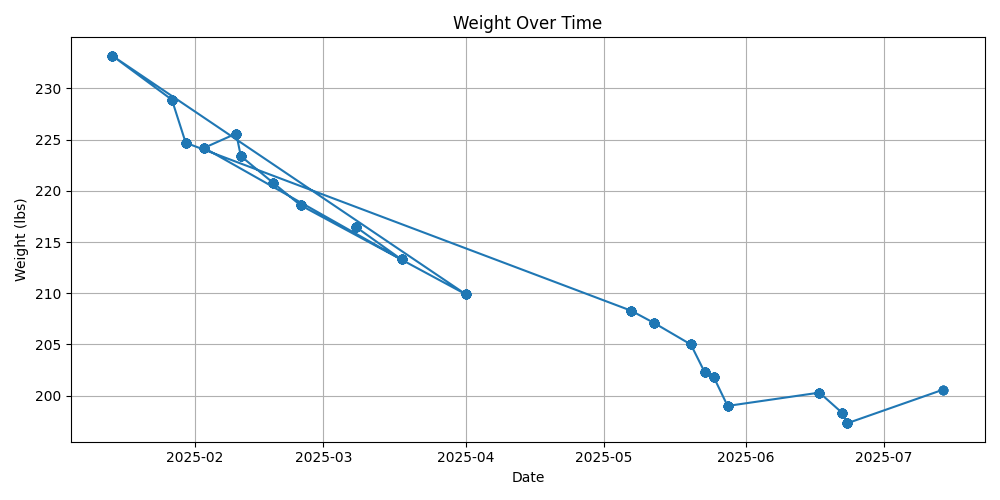
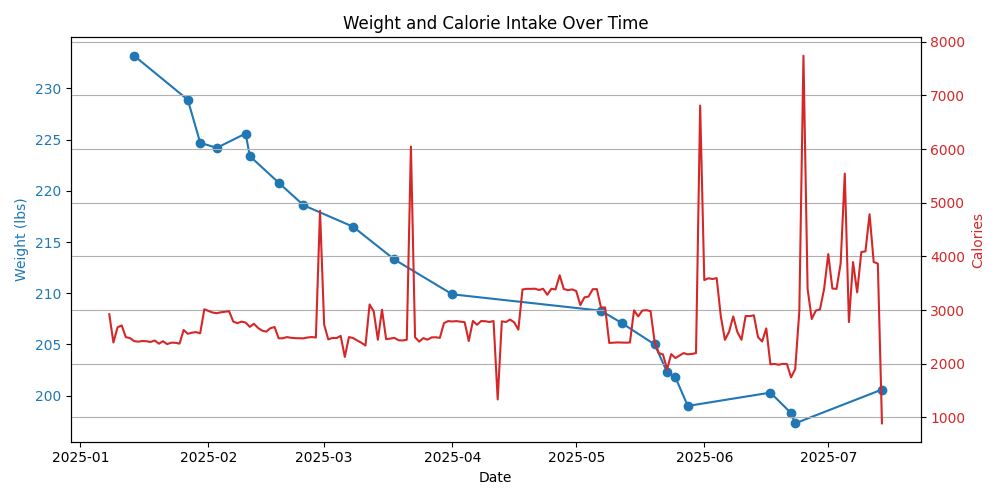
Update README with new insights and push updated weight/calorie chart

diff --git a/README.md b/README.md
@@ -23,41 +23,40 @@ The main goal of this dashboard is to help you:
 
 ## Visualizations & Summaries
 
-### 1. Weight Over Time
+### 1. Weight Over Time vs. Calorie Intake
 ![Weight Over Time](visualizations/weight_over_time.png)
-- I notice that my weight fluctuates, especially during periods when I eat more calories or change my macro balance. Most spikes in weight seem to follow cheat days where I eat more than usual. If my weight trends up or down outside my goals, I review my food choices for those days. When my weight is stable and healthy, I know I'm managing my diet well.
+- Weight loss has been consistent over time and cheat days have had little to no impact on consistent weight gain. Moderate to aggresive increase in calorie intake drives weight gain, while aggresive dieting leads to psychological and physical burnout and causes unplanned cheat days.
 
 ### 2. Daily Calorie Intake
 ![Daily Calorie Intake](visualizations/daily_calories.png)
-- I see spikes in my calorie intake that usually line up with cheat days, weekends, or social events. When my calories are consistent and close to my goal, I feel best. If I notice long stretches of low calories, I check for signs of low energy. Too many high-calorie days can lead to weight gain, so I keep an eye on those.
+
 
 ### 3. Daily Macros
 ![Daily Macros](visualizations/daily_macros.png)
-- Most days, my macros look balanced, but I see spikes in protein, carbs, and fat after cheat days or big meals. If I notice my fat intake is high for several days, I try to adjust my food choices. I aim for enough protein to support my activity level.
+- Most spikes in macro intake are due to cheat days. Increased carb intake in July has lead to improved physical performance and feelings of satiety. I've faced difficulty in keeping my protein intake under 200 grams. Fats have been kept deliberately low to allow for more carb intake but I'm slowly increasing them to see how it effects physical performance.
 
 
 ### 4. Daily Nutrients
 #### Cholesterol
 ![Daily Cholesterol](visualizations/daily_cholesterol_mg.png)
-- Most days I'm under the recommended 300mg, but I see spikes that line up with cheat days or when I eat eggs or shellfish.
+- Overall my cholesterol intake is a bit high (over 300 mg), but spikes are driven by cheat days.
 
 #### Sodium
 ![Daily Sodium](visualizations/daily_sodium_mg.png)
 
-- I often go over the 2300mg limit, especially after cheat days, processed foods, or restaurant meals. I know I should cut back to help my blood pressure.
+- I often go over the 2300 mg recommendation, but I don't find this concerning as I rely on sodium as a source of electrolytes, and my blood pressure is in a very healthy range.
 
 #### Sugar
 ![Daily Sugar](visualizations/daily_sugar_grams.png)
-- My sugar intake is usually moderate, but it jumps after cheat days, desserts, or lots of fruit. If I see too many high-sugar days, I try to cut back for my health.
+- My sugar intake is usually moderate, but it jumps after cheat days, desserts, or lots of fruit.
 
 #### Fiber
 ![Daily Fiber](visualizations/daily_fiber_grams.png)
-- Some days I don't hit the 25g target, so I try to eat more whole grains, fruits, and veggies. More fiber helps my digestion and keeps me full.
-
+- Overall fiber intake is in a good spot.
 
 ### 5. Top Foods
 ![Top Foods](visualizations/top_foods.png)
-- I see that lean proteins like chicken breast and protein powder, and staple carbs like rice and lentils, are my top foods. If I notice processed foods or sweets in the top 10, I try to eat them less often for better health.
+- I see that lean proteins like chicken breast and protein powder, and staple carbs like rice and lentils, are my top foods. 
 
 ## How to Use
 1. Place your MyFitnessPal diary PDFs in the `pdf/` folder.
